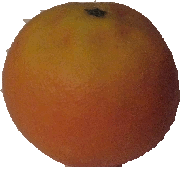
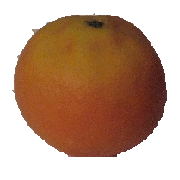
shrank orange, added level to high score

Changed region(s): [[0.0, 0.0, 1.0, 0.9444]]

diff --git a/app/src/main/java/com/bulsy/greenwall/PlayScreen.java b/app/src/main/java/com/bulsy/greenwall/PlayScreen.java
@@ -53,9 +53,9 @@ public class PlayScreen extends Screen {
     static final int INIT_SELECTABLE_SPEED = 150;  // speed of selectable fruit at bottom of screen
     static final int SELECTABLE_Y_PLAY = 2;  // jiggles fruit up and down
     static final float INIT_SELECTABLE_Y_FACTOR = 0.9f;
-    static final int MIN_ROUND_PASS_PCT = 75;  // pct splatted on wall that we require to advance level
+    int minRoundPassPct;  // pct splatted on wall that we require to advance level
     static final String LINE_SPLIT_MARKER = "#";
-    static final int TS_NORMAL = 45; // normal text size
+    static final int TS_NORMAL = 42; // normal text size
     static final int TS_BIG = 60; // large text size
 
     private Paint p;
@@ -101,7 +101,7 @@ public class PlayScreen extends Screen {
     private int round;
     private int score;
     private int lives;
-    private int hiscore;
+    private int hiscore=0, hilev=1;
     private static final String HISCORE_FILE = "gwhs.dat";
     private static final int START_NUMLIVES = 3;
     private Map<Integer, String> levelmsgMap = new HashMap<Integer, String>();
@@ -276,10 +276,11 @@ public class PlayScreen extends Screen {
             levelmsgMap.put(Integer.valueOf(1), "tImE to SPlaT!#fling the fruit at the wall!");
             levelmsgMap.put(Integer.valueOf(LEVEL_ORANGE), "Orange ya glad there's more#fruit to throw?");
             levelmsgMap.put(Integer.valueOf(LEVEL_BANANA), "Splat pear+orange+banana#in the same place...fruit salad!");
-            levelmsgMap.put(Integer.valueOf(LEVEL_MILK), "Some milk to wash all that#fruit down?");
-            levelmsgMap.put(Integer.valueOf(LEVEL_KETCHUP), "Don't pop the ketchup packets!#Nobody likes that.");
+            levelmsgMap.put(Integer.valueOf(LEVEL_MILK), "how about Some milk to wash#all that fruit down?");
+            levelmsgMap.put(Integer.valueOf(LEVEL_KETCHUP), "Don't pop the keTChup packets!#Nobody likes that.");
             levelmsgMap.put(Integer.valueOf(LEVEL_ICECREAM), "time for ICE CREAM!#And more combinations!");
-            levelmsgMap.put(Integer.valueOf(LEVEL_NUT), "Mmm...chocolate sauce!#Hit those combos!");
+            levelmsgMap.put(Integer.valueOf(LEVEL_NUT), "Mmm...chocolate sauce!#Hit those COMBOS!");
+            levelmsgMap.put(Integer.valueOf(20), "getting a little crazy now, yes?");
 
             p.setTypeface(act.getGameFont());
             round = 1;
@@ -315,6 +316,7 @@ public class PlayScreen extends Screen {
         try {
             BufferedReader f = new BufferedReader(new FileReader(act.getFilesDir() + HISCORE_FILE));
             hiscore = Integer.parseInt(f.readLine());
+            hilev = Integer.parseInt(f.readLine());
             f.close();
         } catch (Exception e) {
             Log.d(MainActivity.LOG_ID, "ReadHiScore", e);
@@ -353,6 +355,14 @@ public class PlayScreen extends Screen {
         else
             maxShownSelectableFruit = 5;
 
+        // how much do we need to get on the wall, to pass?
+        if (round == 1)
+            minRoundPassPct = 60;
+        else if (round < 4)
+            minRoundPassPct = 70;
+        else
+            minRoundPassPct = 75;
+
         clearLists();
 
         // set up fruits to throw
@@ -387,10 +397,12 @@ public class PlayScreen extends Screen {
     private void loseLife() {
         lives--;
         if (lives == 0) {
+            // game over!  wrap things up and write hi score file
             gamestate = State.GAMEOVER;
             try {
                 BufferedWriter f = new BufferedWriter(new FileWriter(act.getFilesDir() + HISCORE_FILE));
-                f.write(Integer.toString(hiscore));
+                f.write(Integer.toString(hiscore)+"\n");
+                f.write(Integer.toString(hilev)+"\n");
                 f.close();
             } catch (Exception e) { // if we can't write the hi score file...oh well.
                 Log.d(MainActivity.LOG_ID, "WriteHiScore", e);
@@ -478,6 +490,8 @@ public class PlayScreen extends Screen {
             ch.y -= COMBOHIT_SPEED * elapsedsecs;
             float chtime = frtime - ch.hitTime;
             ch.alpha = (int) (255 * (1.0f - chtime / COMBOHIT_DISPLAYTIME));
+            if (frtime - ch.hitTime > COMBOHIT_DISPLAYTIME / 2)
+                fps = 9;
             if (frtime - ch.hitTime > COMBOHIT_DISPLAYTIME)
                 hcit.remove();
         }
@@ -488,10 +502,6 @@ public class PlayScreen extends Screen {
             initRound();
             return;
         }
-//        else if (gamestate == State.ROUNDSUMMARY
-//                || gamestate == State.PLAYERDIED
-//                || gamestate == State.GAMEOVER)
-//            return;  // we're in pause, there's nothing else to update
 
         if (width == 0) {
             // set variables that rely on screen size
@@ -523,7 +533,8 @@ public class PlayScreen extends Screen {
         if (gamestate == State.RUNNING
                 && fruitsSelectable.size() < maxShownSelectableFruit
                 && seedsQueued.size() > 0
-                && Math.random() > .95) { // "every now and then" make a fruit available
+                && Math.random() > .95) {
+            // "every now and then" make a fruit available
             Fruit newf = null;
             if (fruitsRecycled.size() > 0) { // recycle a fruit if we can
                 newf = fruitsRecycled.get(0);
@@ -548,7 +559,7 @@ public class PlayScreen extends Screen {
                 && fruitsFlying.size() == 0
                 && seedsQueued.size() == 0) {
             // round is complete
-            if (nWallSplats * 100 / nTotFruit >= MIN_ROUND_PASS_PCT) {
+            if (nWallSplats * 100 / nTotFruit >= minRoundPassPct) {
                 round++;
                 gamestate = State.ROUNDSUMMARY;
             } else
@@ -720,12 +731,14 @@ public class PlayScreen extends Screen {
             p.setTextSize(TS_NORMAL);
             p.setTypeface(act.getGameFont());
             p.setFakeBoldText(true);
-            c.drawText("ROUND: " + round, width - 270, 60, p);
-            c.drawText("LIVES: " + lives, width - 270, 120, p);
+            c.drawText("ROUND: " + round, width - 260, 60, p);
+            c.drawText("LIVES: " + lives, width - 260, 120, p);
             c.drawText("SCORE: " + score, 10, 60, p);
-            if (score > hiscore)
+            if (score > hiscore) {
                 hiscore = score;
-            c.drawText("HIGH: " + hiscore, 10, 120, p);
+                hilev = round;
+            }
+            c.drawText("HIGH: " + hiscore +" (rn "+hilev+")", 10, 120, p);
 
             // game programming!  pure and constant state manipulation!
             // this is like fingernails on a chalkboard for the functional programming crowd
@@ -737,7 +750,7 @@ public class PlayScreen extends Screen {
                     // round ended, by completion or player death, display stats
                     int splatPct = (int) (nWallSplats * 100 / nTotFruit);
 
-                    drawCenteredText(c, splatPct + "% sPLAttaGe! ("+MIN_ROUND_PASS_PCT+"% required)", height / 3, p, 0);
+                    drawCenteredText(c, splatPct + "% sPLAttaGe! ("+ minRoundPassPct +"% required)", height / 3, p, 0);
                     if (gamestate == State.ROUNDSUMMARY) {
                         if (splatPct < 80)
                             drawCenteredText(c, "not too bad.", (int) (height / 2.5), p, 0);
